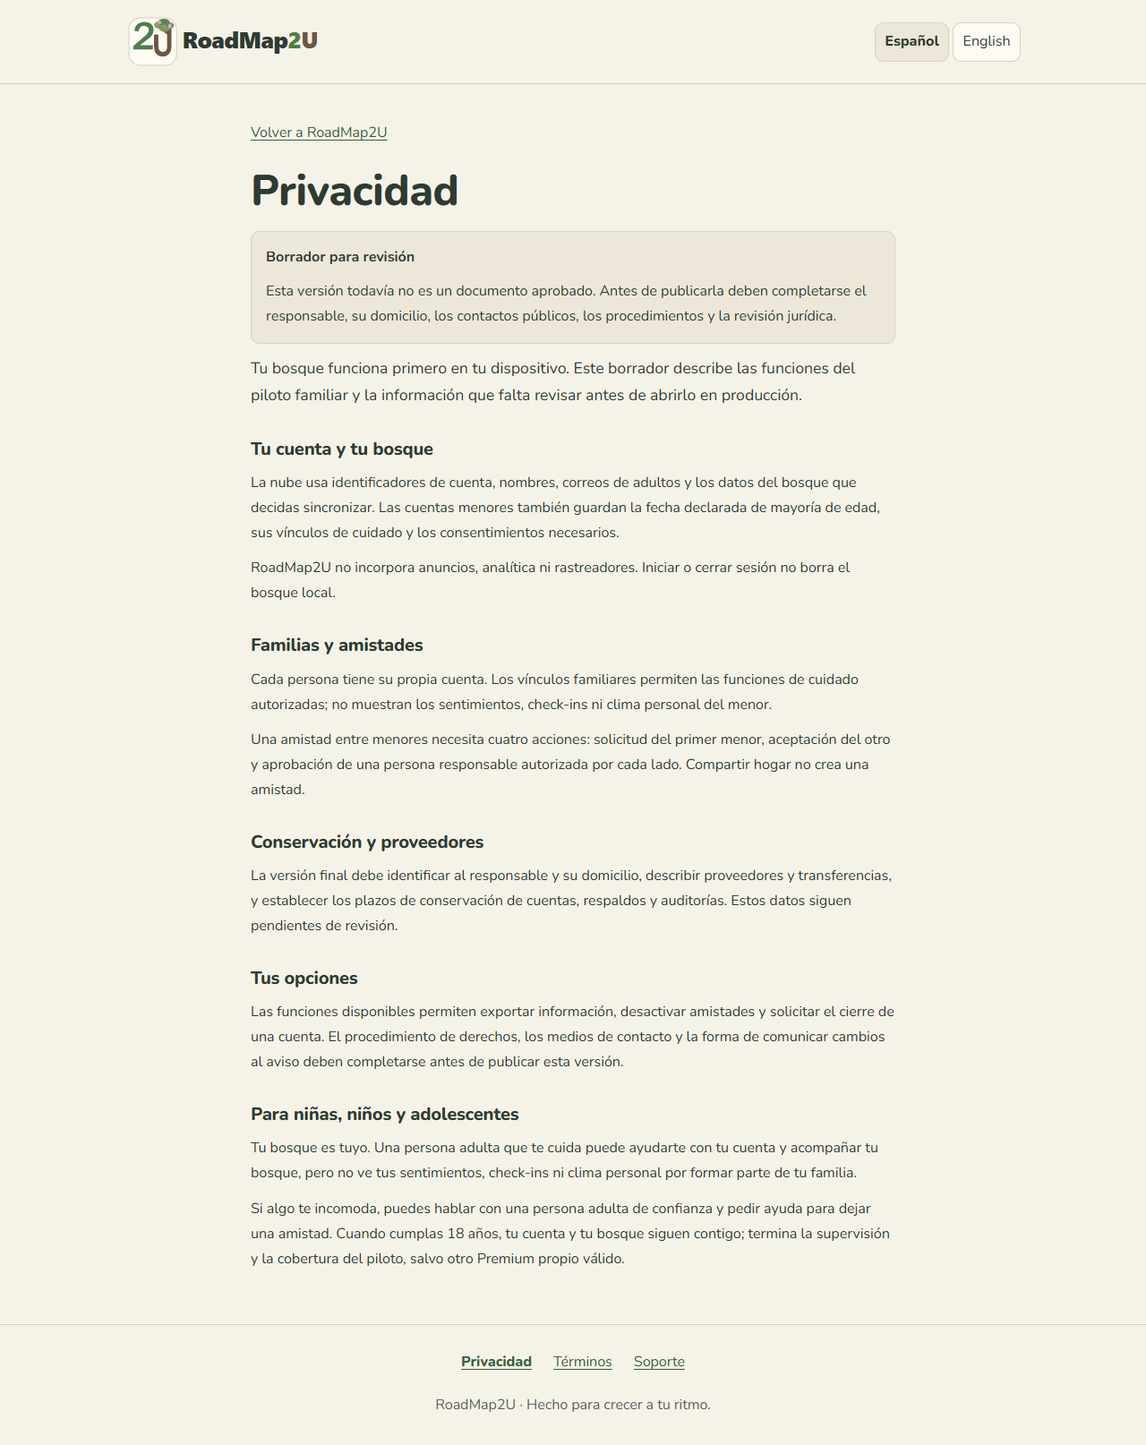
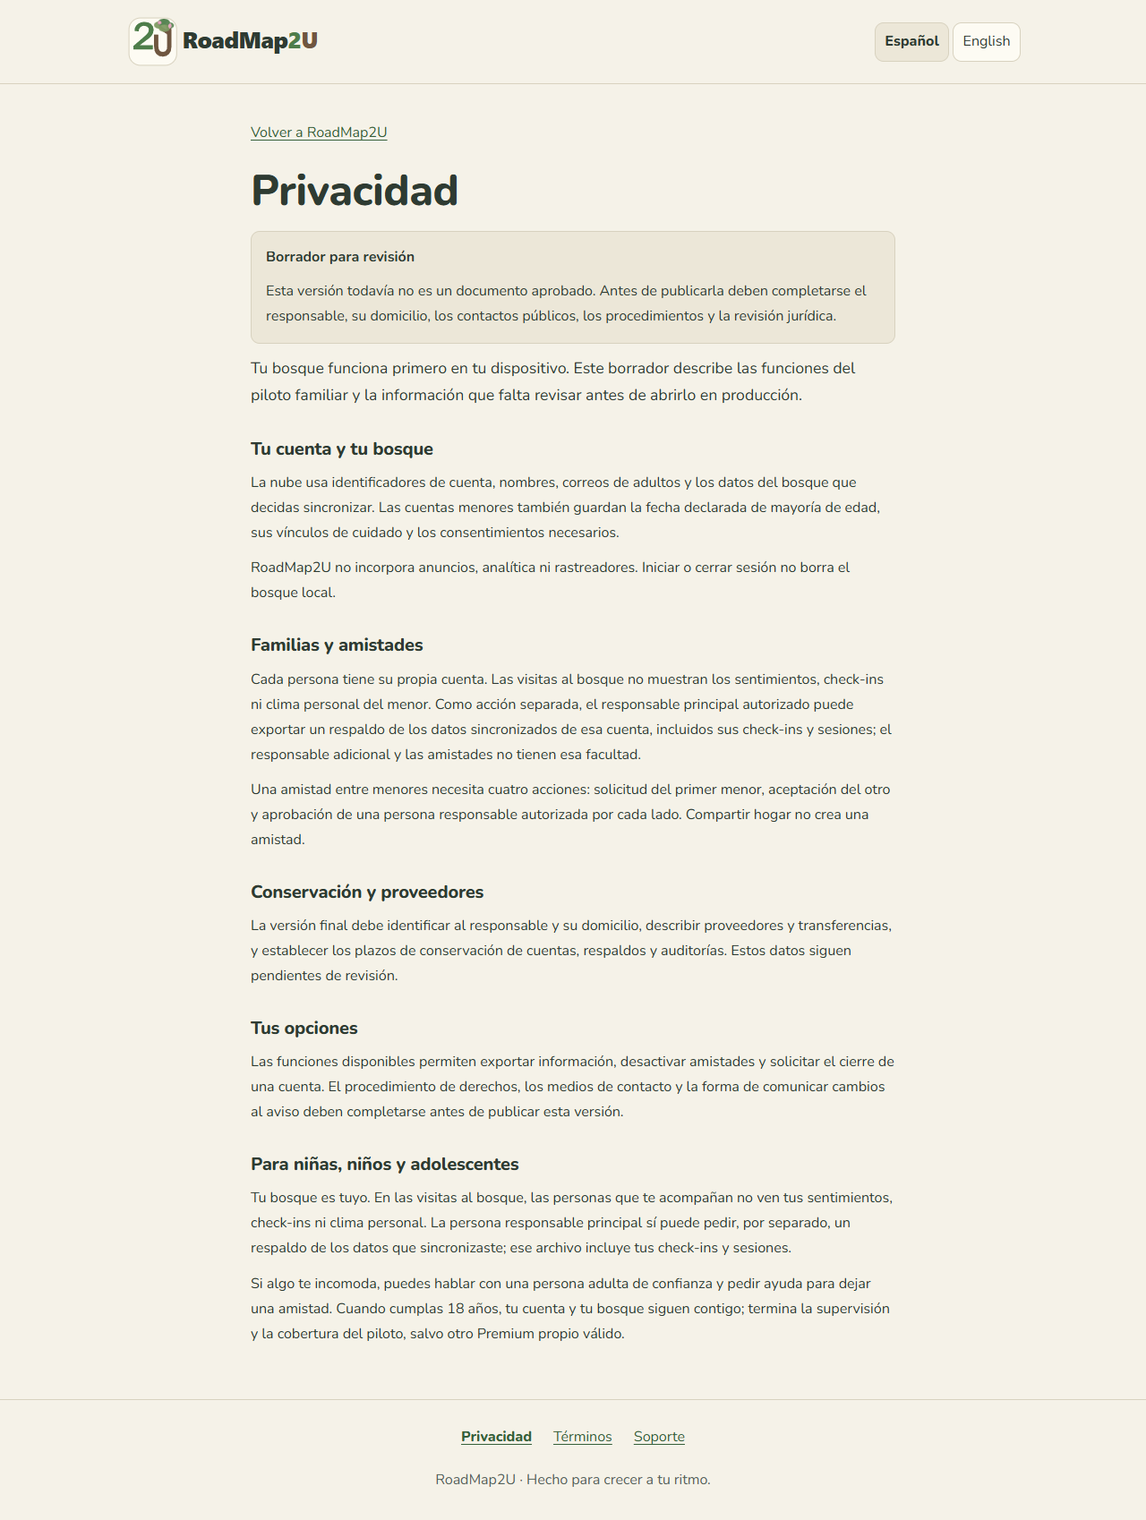
docs(privacy): clarify primary guardian backup access

diff --git a/src/app/core/i18n/es.ts b/src/app/core/i18n/es.ts
@@ -171,7 +171,7 @@ export const ES = {
         {
           title: 'Familias y amistades',
           paragraphs: [
-            'Cada persona tiene su propia cuenta. Los vínculos familiares permiten las funciones de cuidado autorizadas; no muestran los sentimientos, check-ins ni clima personal del menor.',
+            'Cada persona tiene su propia cuenta. Las visitas al bosque no muestran los sentimientos, check-ins ni clima personal del menor. Como acción separada, el responsable principal autorizado puede exportar un respaldo de los datos sincronizados de esa cuenta, incluidos sus check-ins y sesiones; el responsable adicional y las amistades no tienen esa facultad.',
             'Una amistad entre menores necesita cuatro acciones: solicitud del primer menor, aceptación del otro y aprobación de una persona responsable autorizada por cada lado. Compartir hogar no crea una amistad.',
           ],
         },
@@ -190,7 +190,7 @@ export const ES = {
         {
           title: 'Para niñas, niños y adolescentes',
           paragraphs: [
-            'Tu bosque es tuyo. Una persona adulta que te cuida puede ayudarte con tu cuenta y acompañar tu bosque, pero no ve tus sentimientos, check-ins ni clima personal por formar parte de tu familia.',
+            'Tu bosque es tuyo. En las visitas al bosque, las personas que te acompañan no ven tus sentimientos, check-ins ni clima personal. La persona responsable principal sí puede pedir, por separado, un respaldo de los datos que sincronizaste; ese archivo incluye tus check-ins y sesiones.',
             'Si algo te incomoda, puedes hablar con una persona adulta de confianza y pedir ayuda para dejar una amistad. Cuando cumplas 18 años, tu cuenta y tu bosque siguen contigo; termina la supervisión y la cobertura del piloto, salvo otro Premium propio válido.',
           ],
         },

diff --git a/src/app/core/i18n/en.ts b/src/app/core/i18n/en.ts
@@ -169,7 +169,7 @@ export const EN: Dict = {
         {
           title: 'Families and friendships',
           paragraphs: [
-            'Each person has their own account. Family relationships allow authorized care features; they do not show the minor’s feelings, check-ins or personal weather.',
+            'Each person has their own account. Forest visits do not show the minor’s feelings, check-ins or personal weather. As a separate action, the authorized primary responsible adult can export a backup of that account’s synced data, including check-ins and sessions; the additional responsible adult and friends do not have this authority.',
             'A friendship between minors needs four actions: the first minor’s request, the other’s acceptance and approval by an authorized responsible adult on each side. Sharing a household does not create a friendship.',
           ],
         },
@@ -188,7 +188,7 @@ export const EN: Dict = {
         {
           title: 'For children and teenagers',
           paragraphs: [
-            'Your forest is yours. An adult who cares for you can help with your account and accompany your forest, but being part of your family does not let them see your feelings, check-ins or personal weather.',
+            'Your forest is yours. People who accompany you do not see your feelings, check-ins or personal weather during forest visits. Your primary responsible adult can separately request a backup of the data you synced; that file includes your check-ins and sessions.',
             'If something makes you uncomfortable, you can talk to an adult you trust and ask for help to leave a friendship. When you turn 18, your account and forest stay with you; supervision and pilot coverage end unless you have another valid Premium source of your own.',
           ],
         },

diff --git a/docs/legal-drafts/technical-privacy-annex.md b/docs/legal-drafts/technical-privacy-annex.md
@@ -1,0 +1,79 @@
+# Anexo técnico de privacidad / Technical privacy annex
+
+**Borrador ES/EN para revisión; no es una aprobación jurídica ni una política de conservación. / ES/EN review draft; not legal approval or a retention policy.**
+
+Observación: 6 de octubre de 2026, PROD. Backend de aplicación `5a4bb3ba7a25f250c0485082669a1c5249b873e9`. Se verificaron metadatos de los recursos AWS instalados y el código de exportación, visitas, sincronización y cierre; no se leyeron bosques ni contenidos de usuarios.
+
+## ES — servicios y recorrido de los datos
+
+| Área | Implementación observada | Información para revisión |
+| --- | --- | --- |
+| Dispositivo | IndexedDB y archivos de respaldo descargados por la persona | El bosque funciona localmente; las copias descargadas quedan bajo control de quien las recibe. |
+| Identidad | Amazon Cognito, región `us-east-1` | Cuenta, atributos de autenticación y administración de identidad. No se publica una identidad compartida por hogar. |
+| API y procesamiento | Amazon API Gateway y AWS Lambda, `us-east-1` | Autorización por cuenta, rol y alcance. Transferencias y consentimientos se verifican en el servidor. |
+| Datos sincronizados | Amazon DynamoDB, `us-east-1` | La sincronización es opt-in. Incluye árboles, ramas, check-ins, sesiones, cosechas y conservas. Las preferencias locales no forman parte de la exportación familiar de nube. |
+| Auditoría | Tabla de auditoría DynamoDB separada | Acciones, actor, sujeto, fecha y detalles operativos; no es el archivo de respaldo del bosque. |
+| Cierre asíncrono | Amazon SQS, Lambda y reconciliación | Mensajes de trabajo e identificadores necesarios para procesar el cierre. |
+| Entrega web | Amazon S3 y distribución global Amazon CloudFront | Artefactos estáticos de la app. CloudFront tiene logging desactivado en la configuración observada. |
+| Operación | Amazon CloudWatch y Amazon SNS | Logs/métricas de operación y alertas privadas; el destinatario de alarmas no es un contacto público de privacidad. |
+
+La marca de proveedor técnico observada es **AWS**. La entidad contractual, condiciones de tratamiento, ubicación/reglas de transferencias y base aplicable deben confirmarse con el contrato y la revisión jurídica. La región configurada de servicios regionales no demuestra que toda operación o entrega global esté limitada a esa región.
+
+### Visitas y respaldo del menor
+
+La vista de visitas entrega el bosque limitado y no sirve check-ins ni sesiones, cualquiera que sea la relación. El responsable principal autorizado puede ejecutar una exportación separada de los registros sincronizados de la cuenta menor; el resultado **sí incluye check-ins y sesiones**. El responsable adicional y las amistades no tienen esa autoridad. La exportación comprueba la autoridad antes y después de consultar los datos para evitar devolver una copia tras un cambio concurrente de responsabilidad o cierre. No obtiene contenidos que solo existan en otro dispositivo. [Código de exportación](https://github.com/Toydrum/roadmap2u-backend/blob/5a4bb3ba7a25f250c0485082669a1c5249b873e9/lambda/handlers/family.ts#L386), [código de visitas](https://github.com/Toydrum/roadmap2u-backend/blob/5a4bb3ba7a25f250c0485082669a1c5249b873e9/lambda/handlers/forests.ts).
+
+La clasificación de categorías sensibles, consentimiento/representación, información infantil y manejo del archivo por su receptor requieren aprobación. El aviso no debe prometer que los check-ins nunca son accesibles por el responsable principal.
+
+### Conservación técnica observada
+
+| Categoría | Valor comprobado | Límite de la observación |
+| --- | --- | --- |
+| 14 grupos de logs Lambda | 30 días cada uno | Es la configuración activa de CloudWatch, no el plazo de expedientes de soporte. |
+| Log de acceso HTTP API | 30 días | Formato configurado: requestId, routeKey, status, responseLength y latency; no contiene campos de body ni cabeceras de autorización. No se inspeccionaron entradas de logs. |
+| Datos activos, relaciones e identidad | Sin un vencimiento universal de cuenta | No se puede describir el TTL de la tabla como plazo general de todas las cuentas y bosques. |
+| Tabla principal | TTL habilitado sobre `ttl` | Solo se aplica a registros que tengan ese atributo válido. TTL no garantiza eliminación instantánea tras el vencimiento. [Documentación AWS](https://docs.aws.amazon.com/amazondynamodb/latest/developerguide/TTL.html). |
+| Marca de cierre completado | El código asigna `ttl` a 30 días tras completar | Mantiene idempotencia de entregas tardías/duplicadas; no implica que todos los datos del usuario se guarden otros 30 días. |
+| Auditoría | TTL deshabilitado; el escritor no asigna caducidad | No hay un vencimiento automático configurado. Debe definirse y aprobarse la política aplicable antes de activar el piloto. |
+| Recuperación de ambas tablas | PITR habilitado, ventana máxima configurada de 35 días | Es una ventana de puntos de recuperación, distinta de la conservación de datos activos. La inferencia técnica es que borrar en la tabla viva no borra de inmediato los puntos anteriores. [Documentación AWS](https://docs.aws.amazon.com/amazondynamodb/latest/developerguide/Point-in-time-recovery.html). |
+| Cola de cierre / cola de fallos | 4 / 14 días, cifrado administrado SQS | Plazos de mensajes, no de cuentas. |
+| Recursos al retirar infraestructura | Tablas, pool y logs con `Retain` | La política de CloudFormation evita destruir recursos al retirar el stack; no sustituye una política de conservación por categoría. |
+
+Quedan fuera de esta observación los contratos del proveedor, la existencia o política de respaldos manuales, copias externas a estos recursos, expedientes futuros de soporte y archivos que descarguen las personas. No deben presentarse como ya reconciliados o aprobados.
+
+## EN — services and data flow
+
+| Area | Observed implementation | Review information |
+| --- | --- | --- |
+| Device | IndexedDB and backups downloaded by the person | The forest works locally; downloaded copies are controlled by whoever receives them. |
+| Identity | Amazon Cognito, `us-east-1` | Account, authentication attributes and identity administration. Each person has a separate account. |
+| API and processing | Amazon API Gateway and AWS Lambda, `us-east-1` | Account, role and scope authorization; server-verified transfers and consents. |
+| Synced data | Amazon DynamoDB, `us-east-1` | Sync is opt-in and includes trees, nodes, check-ins, sessions, harvests and preserves. Local preferences are not included in a family cloud export. |
+| Audit | Separate DynamoDB audit table | Actions, actor, subject, timestamp and operational details; not the forest backup file. |
+| Asynchronous closure | Amazon SQS, Lambda and reconciliation | Work messages and identifiers needed to process closure. |
+| Web delivery | Amazon S3 and global Amazon CloudFront distribution | Static app artifacts. CloudFront logging is disabled in the observed configuration. |
+| Operations | Amazon CloudWatch and Amazon SNS | Operational logs/metrics and private alerts; the alarm recipient is not a public privacy contact. |
+
+The observed technical provider brand is **AWS**. The contracting entity, processing terms, transfer locations/rules and applicable basis require contract verification and legal review. The configured region for regional services does not establish that all operations or global delivery are confined to that region.
+
+### Minor visits and backup
+
+The visit view serves a limited forest and never serves check-ins or sessions, regardless of relationship. The authorized primary responsible adult can perform a separate export of the minor account’s synced records; it **includes check-ins and sessions**. The additional responsible adult and friends lack that authority. The export checks authority before and after querying records to avoid returning data following a concurrent care change or closure. It cannot obtain contents existing only on another device. [Export implementation](https://github.com/Toydrum/roadmap2u-backend/blob/5a4bb3ba7a25f250c0485082669a1c5249b873e9/lambda/handlers/family.ts#L386), [visit implementation](https://github.com/Toydrum/roadmap2u-backend/blob/5a4bb3ba7a25f250c0485082669a1c5249b873e9/lambda/handlers/forests.ts).
+
+Sensitive data classification, consent/representation, child-facing disclosure and the recipient’s handling of the file require approval. The notice must not promise that the primary responsible adult can never access check-ins.
+
+### Observed technical retention
+
+| Category | Verified setting | Observation limit |
+| --- | --- | --- |
+| 14 Lambda log groups | 30 days each | Active CloudWatch setting, not a support case retention period. |
+| HTTP API access log | 30 days | Configured fields: requestId, routeKey, status, responseLength and latency; no body or authorization-header fields. Log entries were not inspected. |
+| Active data, relationships and identity | No universal account expiration | Table TTL is not a general retention period for every account or forest. |
+| Main table | TTL enabled on `ttl` | Applies only to records carrying a valid attribute; expiration does not guarantee instant deletion. [AWS documentation](https://docs.aws.amazon.com/amazondynamodb/latest/developerguide/TTL.html). |
+| Completed closure marker | Code sets a TTL 30 days after completion | Supports delayed/duplicate-delivery idempotency; does not mean all user data is kept for another 30 days. |
+| Audit | TTL disabled; writer sets no expiration | No automatic expiration is configured. An applicable policy must be defined and approved before pilot activation. |
+| Recovery for both tables | PITR enabled, configured maximum recovery window of 35 days | Recovery points differ from active-data retention. The technical inference is that deleting live data does not immediately erase prior recovery points. [AWS documentation](https://docs.aws.amazon.com/amazondynamodb/latest/developerguide/Point-in-time-recovery.html). |
+| Closure queue / dead-letter queue | 4 / 14 days, SQS managed encryption | Message retention periods, not account retention. |
+| Infrastructure removal | Tables, pool and logs use `Retain` | CloudFormation avoids destroying those resources on stack removal; this is not a category-specific retention policy. |
+
+Provider contracts, existence/policy of manual backups, copies outside these resources, future support records and files downloaded by people were not inventoried here. They must not be described as already reconciled or approved.

diff --git a/docs/legal-drafts/family-pilot-es.md b/docs/legal-drafts/family-pilot-es.md
@@ -8,7 +8,7 @@
 
 **Datos y finalidades.** RoadMap2U trata identificadores de cuenta, nombre de usuario, correo de adultos, fecha declarada de mayoría de edad de menores, vínculos de cuidado, consentimientos, solicitudes de amistad, contenido que la persona decida guardar en su bosque y datos técnicos necesarios para autenticación, seguridad y operación. Especificar antes de publicar si alguna categoría constituye dato sensible y el mecanismo de consentimiento que corresponda. Usamos los datos para operar cuentas y bosques, permitir supervisión limitada, gestionar invitaciones y cuatro consentimientos para amistades entre menores, dar soporte, prevenir abuso y cumplir obligaciones aplicables. Las finalidades opcionales, si se incorporan, deberán presentarse separadas y permitir negativa.
 
-**Menores.** La cuenta infantil requiere declaración y autorización de su responsable. La amistad entre dos menores se activa solo tras la acción del menor solicitante, aceptación del destinatario y aprobación de una persona responsable autorizada por cada lado. Los responsables ven únicamente las funciones de cuidado habilitadas; los sentimientos, check-ins y clima personales no se exponen por el vínculo familiar. Al cumplir 18 años, la persona conserva su cuenta y datos; termina la supervisión y su cobertura familiar piloto, salvo otra fuente propia de Premium.
+**Menores.** La cuenta infantil requiere declaración y autorización de su responsable. La amistad entre dos menores se activa solo tras la acción del menor solicitante, aceptación del destinatario y aprobación de una persona responsable autorizada por cada lado. Las visitas al bosque no incluyen sentimientos, check-ins ni clima personal del menor. Como acción separada de la visita, el responsable principal autorizado puede exportar un respaldo de los datos sincronizados de la cuenta menor, incluidos check-ins y sesiones; el responsable adicional y las amistades no tienen esa facultad. La copia exportada no obtiene datos que solo existan en otro dispositivo. La revisión jurídica debe determinar las categorías sensibles y el consentimiento/representación aplicables a esta exportación antes de habilitar PROD. Al cumplir 18 años, la persona conserva su cuenta y datos; termina la supervisión y su cobertura familiar piloto, salvo otra fuente propia de Premium.
 
 **Acceso, conservación y seguridad.** Cada persona usa su propia cuenta. Las visitas sociales reciben una vista limitada del bosque. Completar `{{PLAZOS_CONSERVACION}}` para datos activos, borrados, respaldos, registros de auditoría y solicitudes vencidas. Describir controles técnicos y organizativos aprobados antes de publicar.
 
@@ -32,11 +32,13 @@ Contacto de soporte: `{{CONTACTO_SOPORTE}}`. Contacto de privacidad: `{{CONTACTO
 
 ## Explicación para niñas, niños y adolescentes — borrador
 
-Tu bosque es tuyo. La persona adulta que te cuida puede ayudarte con tu cuenta y acompañar tu bosque, pero no ve tus sentimientos, check-ins ni clima personal por ser parte de tu familia. Puedes tener amistades con otros menores: tú debes pedir o aceptar, y una persona adulta autorizada de cada lado debe aprobar. Nadie se vuelve tu amistad solo por compartir hogar.
+Tu bosque es tuyo. En las visitas al bosque, las personas que te acompañan no ven tus sentimientos, check-ins ni clima personal. La persona responsable principal sí puede pedir, por separado, un respaldo de los datos que sincronizaste; ese archivo incluye tus check-ins y sesiones. Puedes tener amistades con otros menores: tú debes pedir o aceptar, y una persona adulta autorizada de cada lado debe aprobar. Nadie se vuelve tu amistad solo por compartir hogar.
 
 Si algo te incomoda, habla con una persona adulta de confianza o usa `{{CONTACTO_SOPORTE}}`. Puedes pedir ayuda para dejar una amistad. Cuando cumplas 18 años, tu cuenta y tu bosque siguen contigo; termina la supervisión familiar y la cobertura especial del piloto.
 
 ## Fuentes para revisión jurídica
+
+- [Anexo técnico ES/EN: servicios, conservación y alcance de respaldos verificados](technical-privacy-annex.md). Describe la configuración observada; no constituye una política de conservación ni una aprobación jurídica.
 
 - [Ley Federal de Protección de Datos Personales en Posesión de los Particulares, texto vigente](https://www.diputados.gob.mx/LeyesBiblio/pdf/LFPDPPP.pdf), artículos 14 y 15 sobre aviso de privacidad.
 - [Lineamientos del Aviso de Privacidad, DOF](https://sidof.segob.gob.mx/notas/docFuente/5284966), incluidos identidad, domicilio y tratamiento de datos de menores. Confirmar con asesoría jurídica su aplicación junto con la ley vigente.

diff --git a/docs/legal-drafts/family-pilot-en.md b/docs/legal-drafts/family-pilot-en.md
@@ -8,7 +8,7 @@
 
 **Data and purposes.** RoadMap2U processes account identifiers, usernames, adult email addresses, minors’ declared date of adulthood, care relationships, consent records, friendship requests, content a person chooses to save in their forest, and technical data needed for authentication, security, and operation. Before publication, identify any sensitive data categories and the required consent mechanism. We use this data to operate accounts and forests, support limited supervision, manage invitations and the four consents for friendships between minors, provide support, prevent abuse, and meet applicable obligations. Any optional purposes must be shown separately with a way to decline them.
 
-**Minors.** A minor account requires a responsible adult’s declaration and authorization. A friendship between minors begins only after the requesting minor acts, the recipient accepts, and an authorized responsible adult on each side approves. Responsible adults see only authorized care functions; family membership does not reveal private feelings, check-ins, or personal weather. At 18, the person keeps their account and data; supervision and family pilot coverage end unless they have another Premium source of their own.
+**Minors.** A minor account requires a responsible adult’s declaration and authorization. A friendship between minors begins only after the requesting minor acts, the recipient accepts, and an authorized responsible adult on each side approves. Forest visits do not include the minor’s feelings, check-ins or personal weather. As a separate action, the authorized primary responsible adult can export a backup of the minor account’s synced data, including check-ins and sessions; the additional responsible adult and friends do not have this authority. That export cannot obtain data that exists only on another device. Legal review must determine sensitive data categories and the applicable consent/representation for this export before PROD activation. At 18, the person keeps their account and data; supervision and family pilot coverage end unless they have another Premium source of their own.
 
 **Access, retention, and security.** Each person uses their own account. Social visits receive a limited forest view. Complete `{{RETENTION_SCHEDULE}}` for active and deleted data, backups, audit records, and expired requests. Describe approved technical and organizational safeguards before publication.
 
@@ -32,11 +32,13 @@ Support: `{{SUPPORT_CONTACT}}`. Privacy: `{{PRIVACY_CONTACT}}`. For minor accoun
 
 ## Explanation for children and teens — draft
 
-Your forest belongs to you. The adult who cares for you can help with your account and tend your forest, but family membership does not let them see your private feelings, check-ins, or personal weather. You can be friends with other minors: you must ask or accept, and an authorized adult on each side must approve. Sharing a household never makes someone your friend automatically.
+Your forest belongs to you. People who accompany you do not see your feelings, check-ins or personal weather during forest visits. Your primary responsible adult can separately request a backup of the data you synced; that file includes your check-ins and sessions. You can be friends with other minors: you must ask or accept, and an authorized adult on each side must approve. Sharing a household never makes someone your friend automatically.
 
 If something feels wrong, speak with an adult you trust or use `{{SUPPORT_CONTACT}}`. You can ask for help ending a friendship. When you turn 18, your account and forest stay with you; family supervision and special pilot coverage end.
 
 ## Sources for legal review
+
+- [ES/EN technical annex: verified services, retention and backup scope](technical-privacy-annex.md). It describes observed configuration, not an approved retention policy or legal clearance.
 
 - [Current Mexican Federal Law on Protection of Personal Data Held by Private Parties](https://www.diputados.gob.mx/LeyesBiblio/pdf/LFPDPPP.pdf), Articles 14–15 on privacy notices.
 - [Mexican Privacy Notice Guidelines, DOF](https://sidof.segob.gob.mx/notas/docFuente/5284966), including controller identity/address and children’s data. Confirm their application alongside current law with legal counsel.
